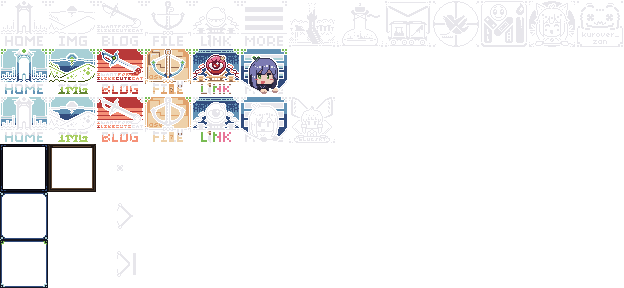
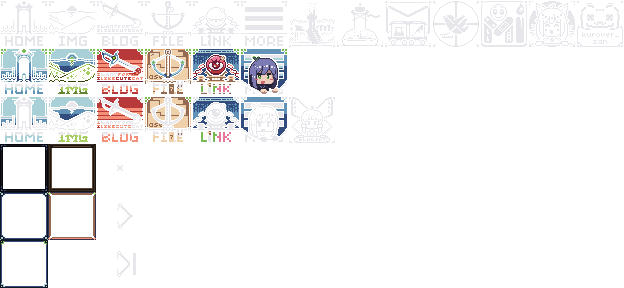
! Update Color
Slightly lighter page color overall I need to let it sit for a while before it's final final

diff --git a/styles.scss b/styles.scss
@@ -31,16 +31,21 @@
   --clr-text-dim: #cac7d4;
   --clr-text-fade: #5d5b63;
   --clr-text-invert: #3D3D43;
-  --clr-background: #0A0C10;
+  --clr-background-old: #0A0C10;
+  --clr-background: #191a24;
   --clr-primary: #78BB52;
-  --clr-secondary: #141624;
-  --clr-accent: #A9D0D6;
-  --clr-border: #494958;
+  --clr-secondary-old: #141624;
+  --clr-secondary: #242532;
+  --clr-accent: #41839a;
+  // --clr-border: #494958;
+  --clr-border: #494e5b;
   --clr-border-select: var(--clr-border);
   
   --clr-link: #78BB52;
   --clr-link-active: var(--clr-text);
   --clr-link-hover: #89f86f;
+  --clr-link-dark: #38571b;
+  --clr-link-dark-hover: #7fb9ce;
   --clr-link-visited: #a067e0;
   --clr-link-visited-bright: #b185eb;
   
@@ -53,9 +58,9 @@
 
   --clr-tooltip-background: #3b2e22;
   --clr-tooltip-text: #e5d6d2;
-  --clr-tooltip-link: #be6f59;
+  --clr-tooltip-link: #ead053;
   --clr-tooltip-link-visited: var(--clr-link-visited-bright);
-  --clr-tooltip-link-hover: #ccb672;
+  --clr-tooltip-link-hover: #c6792a;
 
   --clr-codeblock-bg-title: #211f2b;
   --clr-codeblock-bg: #302c3f;
@@ -353,6 +358,9 @@ body::after {
   max-width: 896px;
   padding: 0;
 }
+.bg-color {
+  background-color: var(--clr-secondary);
+}
 .border {
   // border-image: url(/img/border-1-active.png) 5 / 16px ;
   border: 2px solid var(--clr-border);
@@ -372,7 +380,7 @@ body::after {
   image-rendering: pixelated;
   // border: 1px solid white;
   border-image: url(/img/border-1-default-alt.png) 6 / 16px / 4px;
-  background: var(--clr-secondary);
+  background: var(--clr-secondary-old);
 }
 .nav-list {
   // position: relative;
@@ -681,7 +689,7 @@ body::after {
   text-align: center;
   font-size: 2rem;
   padding: 8px;
-  background-color: var(--clr-secondary);
+  background-color: var(--clr-accent);
 }
 .title-full--no-bg {background-color: transparent;}
 @keyframes wip-popup {
@@ -935,6 +943,7 @@ body::after {
   margin-bottom: 32px;
   margin-right: 1rem;
   border: var(--headshot-border);
+  background-color: var(--clr-background);
   & > img {
     position: absolute;
     transition: visibility .25s, opacity .25s, transform .5s;
@@ -1681,7 +1690,7 @@ div.contact-list--alt::before { // Dummy content for the tooltip one to fix layo
   cursor: pointer;
   flex: 0;
   overflow: hidden;
-  background-color: var(--clr-text-invert);
+  background-color: var(--clr-accent);
   transition: flex .5s;
 }
 // * Settings

diff --git a/index.html b/index.html
@@ -8,7 +8,7 @@ og-type: website
 <main>
   <!-- ! Main Header -->
   <!-- Has hidden overflow to prevent scrollbar jitter, mainly for firefox -->
-  <section class="wrapper border no-overflow relative" tabindex="-1" id="main"> 
+  <section class="wrapper border bg-color no-overflow relative" tabindex="-1" id="main"> 
     <!-- ! Profile System -->
     <input id="profile-headshot-1_sys" type="radio" name="profile-accordion" checked>
     <input id="profile-headshot-2_sys" type="radio" name="profile-accordion">
@@ -74,8 +74,7 @@ og-type: website
     </div>
   </section>
 
-  <div class="wrapper">
-    <hr>
+  <div class="wrapper bg-color">
     <p>The website is under major (re)construction! You can view <a href="https://github.com/Kurover/kurover.github.io/blob/main/Version-3.md" target="_blank">V3 Notes</a> for what's being worked on and stuff.</p>
     <p>On the meantime, try looking at <a href="/gallery">Gallery</a> or check out <a href="/v2">old website</a>.</p>
     <div style="list-style: decimal;">

diff --git a/gallery.html b/gallery.html
@@ -6,7 +6,7 @@ og-title: Gallery
 og-type: gallery
 ---
 <main>
-  <section class="wrapper border gallery-illith-anchor" tabindex="-1" id="main">
+  <section class="wrapper border bg-color gallery-illith-anchor" tabindex="-1" id="main">
     <div class="headshot headshot--float-left headshot--pos-first">
       <div class="headshot-accordion gallery-illith-accordion">
         <img class="gallery-illith-state normal" src="/img/illith-normal.png" alt="">

diff --git a/file.html b/file.html
@@ -8,7 +8,7 @@ nav-more: true
 custom-css: /styles/cursor-preview.css
 ---
 <main>
-  <section class="wrapper border" tabindex="-1" id="main">
+  <section class="wrapper border bg-color" tabindex="-1" id="main">
 
     <h1>Files</h1>
 

diff --git a/blog.html b/blog.html
@@ -7,7 +7,7 @@ og-type: blog
 nav-more: true
 ---
 <main>
-  <section class="wrapper border" tabindex="-1" id="main">
+  <section class="wrapper border bg-color" tabindex="-1" id="main">
 
     <h1>Blog Posts</h1>
     
